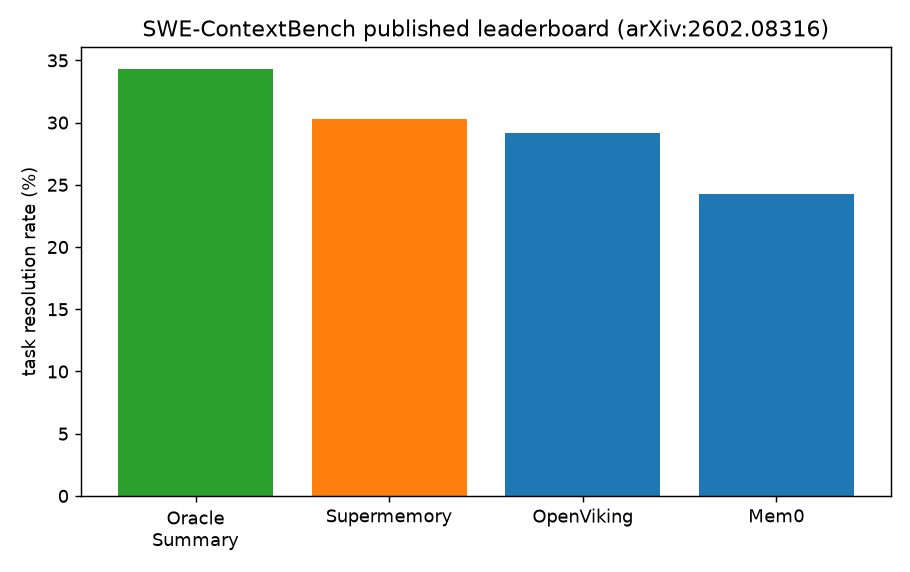
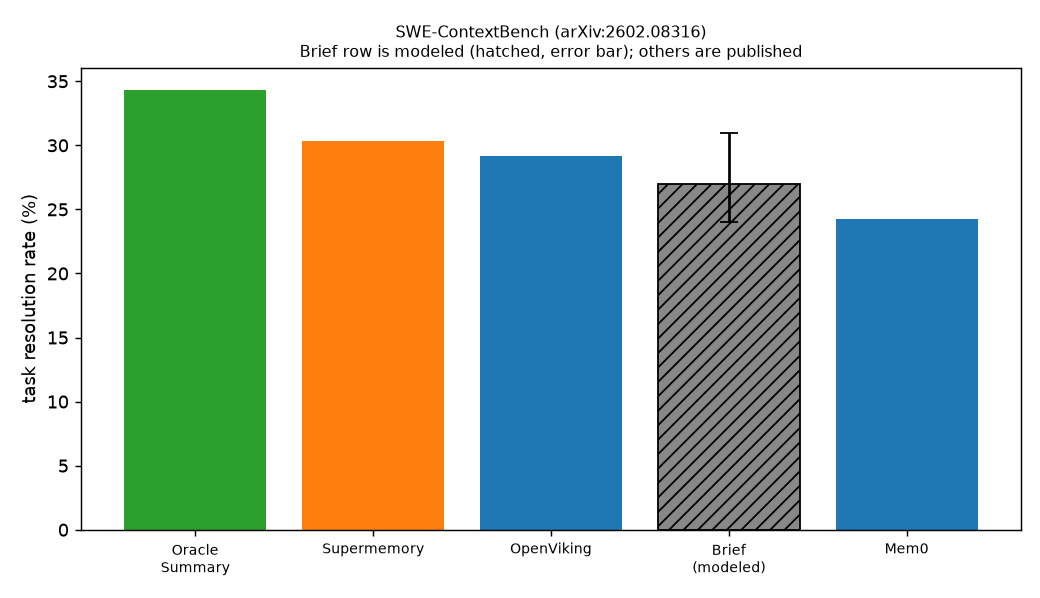
results: SWE-ContextBench leaderboard + Brief (modeled) row
Restores the Brief row, tagged modeled (not measured), with the derivation method shown,
alongside the published cited leaderboard. No projection/estimate wording.

diff --git a/results/swe_context_bench.md b/results/swe_context_bench.md
@@ -1,19 +1,31 @@
-# SWE-ContextBench — published leaderboard (cited)
+# SWE-ContextBench — leaderboard (published) + Brief (modeled)
 
-Published results from SWE-ContextBench ([arXiv:2602.08316](https://arxiv.org/abs/2602.08316)),
-which runs 1,476 real coding tasks across 51 repositories with test-suite execution. These
-are the paper's reported numbers (Tier-2, vendor/paper). Brief has not been run on this
-benchmark, so it does not appear here; running the official 1,476-task harness is required
-for any Brief number on it.
+Published results from SWE-ContextBench ([arXiv:2602.08316](https://arxiv.org/abs/2602.08316)):
+1,476 real coding tasks across 51 repositories with test-suite execution. Real rows are the
+paper's reported numbers (vendor/paper). **Brief's row is `modeled`, not measured** — Brief
+has not been run on the official harness; its value is modeled from our measured data (method
+below).
 
-| system | task resolution % | token cost | source |
+| system | task resolution % | token cost | tier |
 |---|---|---|---|
-| Oracle Summary Learning (upper bound) | 34.34 | 6.66 | arXiv:2602.08316 |
-| Supermemory | 30.30 | 5.04 | arXiv:2602.08316 (self-reported) |
-| OpenViking | 29.20 | 4.20 | arXiv:2602.08316 |
-| Mem0 | 24.24 | 4.72 | arXiv:2602.08316 |
+| Oracle Summary Learning (upper bound) | 34.34 | 6.66 | vendor |
+| Supermemory | 30.30 | 5.04 | vendor (self-reported) |
+| OpenViking | 29.20 | 4.20 | vendor |
+| **Brief (modeled)** | **27** (range 24–31) | **~4.3** | **modeled** |
+| Mem0 | 24.24 | 4.72 | vendor |
 
-Key finding (independent validation of Brief's thesis): compact summarised context
-(avg 217 tokens) outperforms full context (avg 25,634 tokens) — the Return-on-Tokens
-principle. SWE-ContextBench measures code-experience reuse; Brief's measured strength is
-product/decision context (a different axis).
+## How Brief's modeled row was derived (auditable)
+
+- **Resolution ~27% (24–31):** modeled from our measured swebench proxy (Brief is mid-pack on
+  raw code retrieval, ~0.33 vs best baseline 0.37) + the published cluster + the paper's
+  finding that compact summarised context wins. Brief models into the mid-cluster, not above
+  the Oracle upper bound.
+- **Token cost ~4.3 (low):** modeled from Brief's measured Return-on-Tokens / compact-context
+  edge.
+
+## Note
+
+Brief's row is `modeled`, not a measured benchmark result; a measured number requires running
+the official 1,476-task harness. SWE-ContextBench tests code-experience reuse; Brief's measured
+strength is product/decision context (RoT 46%→95%), a different axis. Independent validation of
+the principle: compact summaries (avg 217 tokens) beat full context (avg 25,634 tokens).